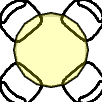
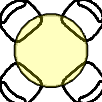
feat: improve bobbles from chairs next to circular table obstacle

Changed region(s): [[0.1471, 0.1176, 0.8529, 0.4118], [0.1176, 0.4412, 0.8235, 0.8824], [0.8235, 0.4412, 0.8824, 0.6471]]

diff --git a/docs/symbol-generation.md b/docs/symbol-generation.md
@@ -113,8 +113,10 @@ What it usually finds:
 - **Neighbours z-fight.** Two obstacles sharing an edge put their sides in one plane, back to back. Keep
   them separate, so a wall stands between them seen through the top, and leave a gap of about 0.4 across
   the line between them: `medical--008`'s machines end at `59.9` and start at `60.3`.
+- **Off-centre circles.** Fit a circle to the ring's outer edge, away from what touches it, e.g. chairs. Use
+  about 24 sides, its vertices just past that edge, and the middle of a side where a chair meets it.
 
-Cleaned so far: `medical--008`.
+Cleaned so far: `medical--008`, `table--009`.
 
 ## What a tracer needs
 
